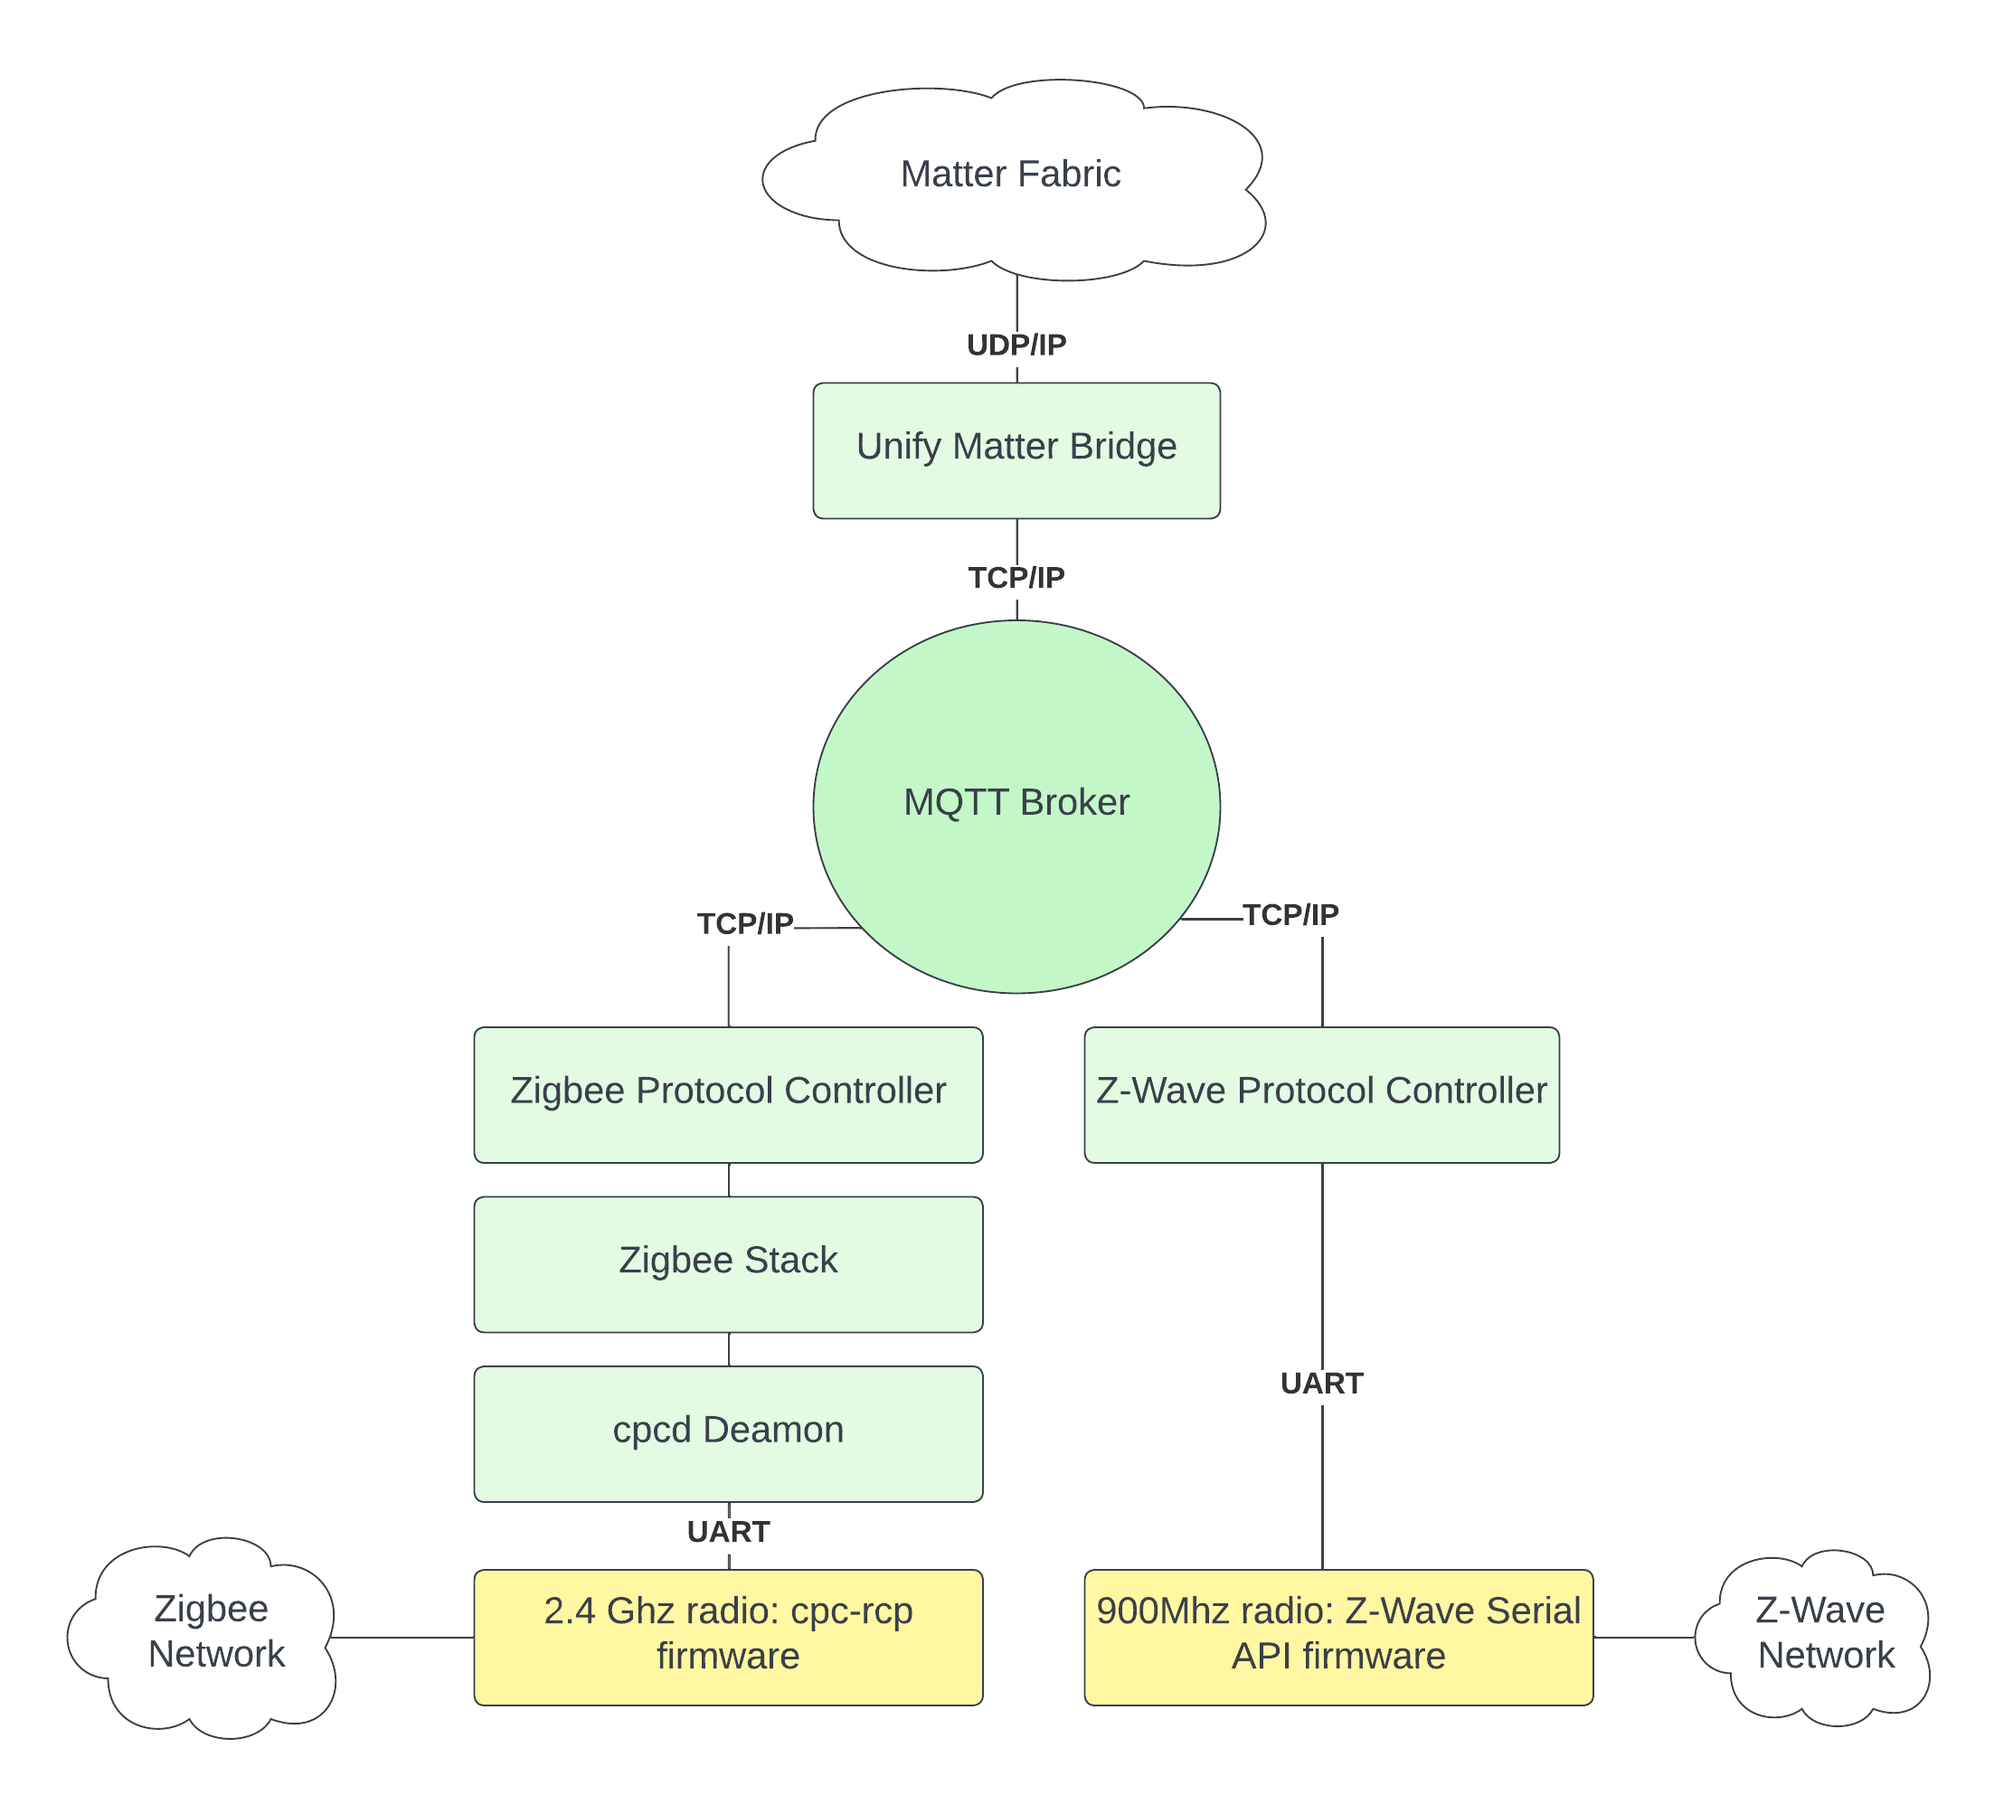
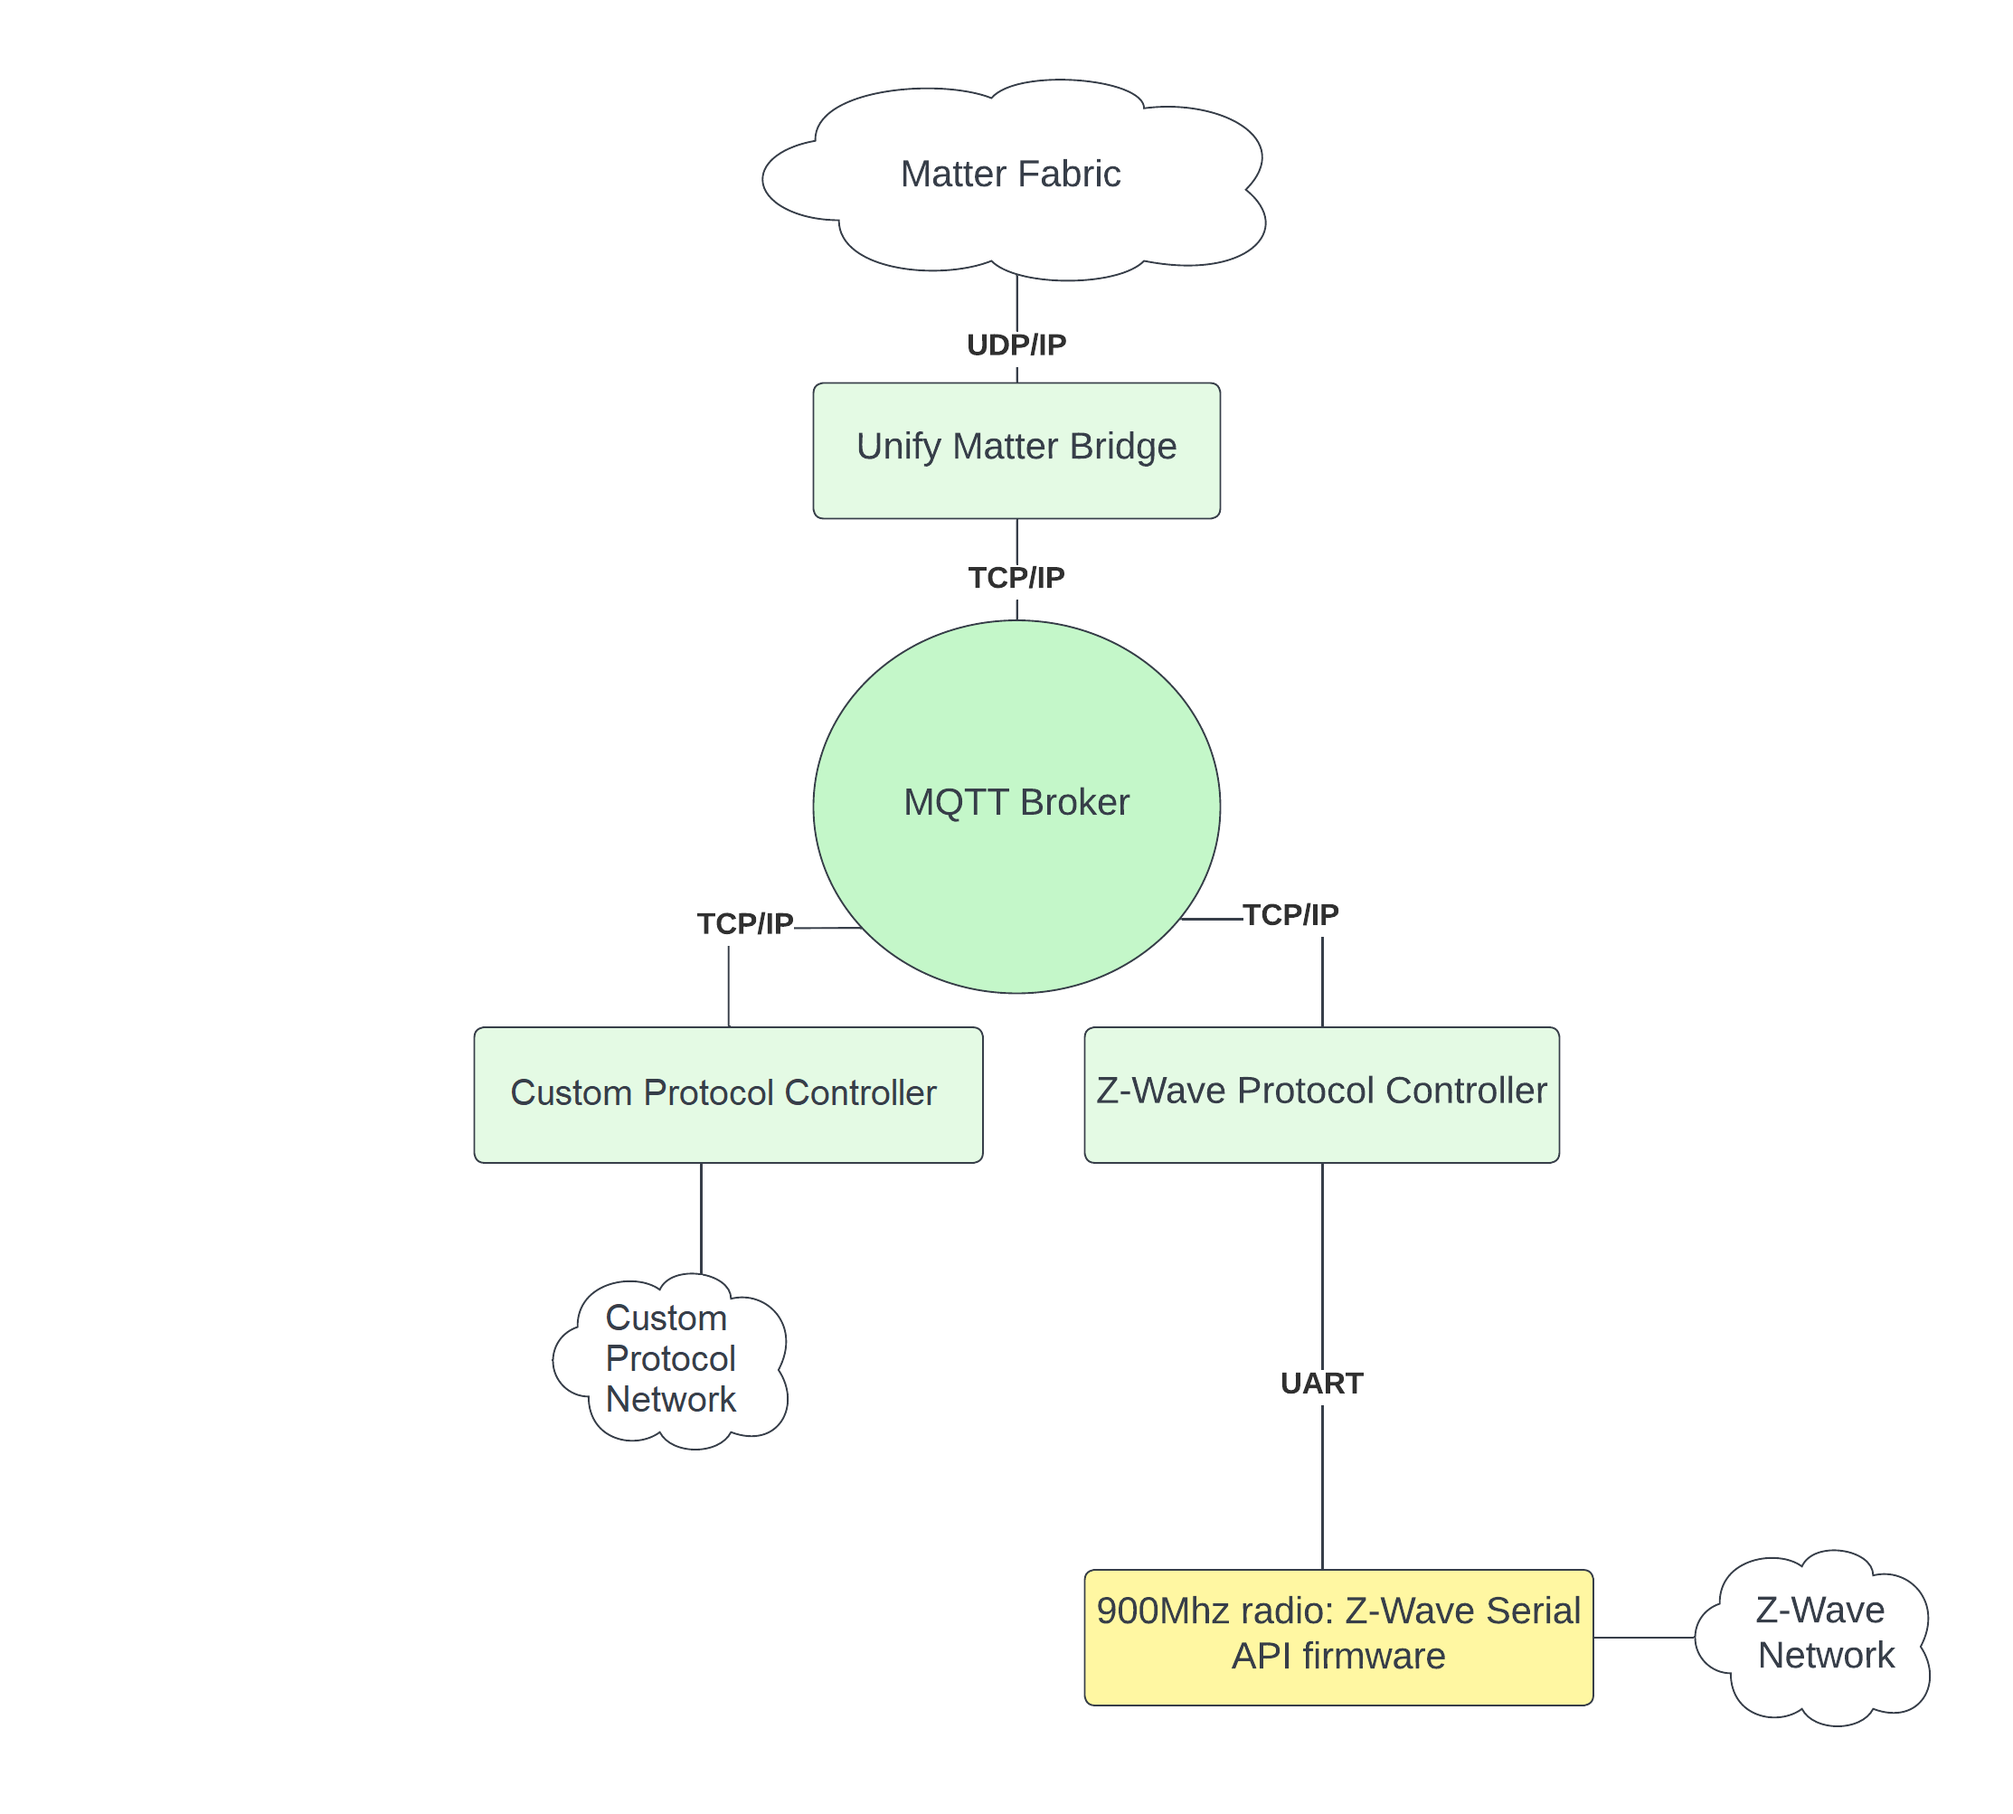
UIC-3651: Unify Matter Bridge Release 1.4.0 Updates

Changed region(s): [[0.217, 0.6491, 0.496, 0.9581], [0.248, 0.5872, 0.465, 0.6181], [0.062, 0.8654, 0.155, 0.9272]]

diff --git a/doc/readme_overview.md b/doc/readme_overview.md
@@ -1,13 +1,13 @@
 # Unify Matter Bridge Overview
 
-The Unify Matter Bridge is an application that makes legacy devices, such as
-Z-Wave and Zigbee devices, accessible on a Matter fabric. It does so by acting
+The Unify Matter Bridge is a reference application that makes legacy devices, such as
+Z-Wave devices, accessible on a Matter fabric. It does so by acting
 as an _IoT Service_ in a Unify Framework.
 
 In the Unify Framework, _protocol controllers_ translate raw wireless
-application protocols such as Z-Wave and Zigbee into a common API called the
+application protocols such as Z-Wave into a common API called the
 Unify Controller Language (UCL). This enables IoT services to operate and
-monitor Z-Wave and Zigbee networks without being aware of the underlying
+monitor Z-Wave networks without being aware of the underlying
 wireless protocol.
 
 In Unify, the transport between IoT services and Protocol Controllers is MQTT
@@ -76,23 +76,25 @@ for details on feature additions, bug fixes, and known issues.
 The Unify Matter Bridge currently supports mapping the following clusters/device
 types.
 
-| Cluster                       |Zigbee Support| Z-Wave Support|
-| :---------------------------- | :-----: | :-----: |
-| Bridge Device Information     |❌|✅| 
-| Level                         |✅|✅|
-| OnOff                         |✅|✅|
-| Identify                      |✅|❌|
-| Group                         |✅|✅|
-| Color Control                 |✅|✅|
-| Occupancy Sensing             |✅|✅|
-| DoorLock                      |✅|✅|
-| Window Covering               |✅|❌|
-| Temperature Measurement       |❌|✅|
-| Illuminance Measurement       |❌|✅|
-| Pressure Measurement          |❌|✅|
-| Flow Measurement              |❌|❌|
-| RelativeHumidity Measurement  |❌|✅|
-| Thermostat            |✅|✅|
+| Cluster                       | Z-Wave Support|
+| :---------------------------- | :-----: |
+| Bridge Device Information     |✅|
+| Level                         |✅|
+| OnOff                         |✅|
+| Identify                      |❌|
+| Group                         |✅|
+| Color Control                 |✅|
+| Occupancy Sensing             |✅|
+| DoorLock                      |✅|
+| Window Covering               |❌|
+| Temperature Measurement       |✅|
+| Illuminance Measurement       |✅|
+| Pressure Measurement          |✅|
+| Flow Measurement              |❌|
+| RelativeHumidity Measurement  |✅|
+| Thermostat            |✅|
+
+All the above clusters are supported by EED for developer use only.
 
 
 > **Note:** The Matter specification states that if write interaction is made on the Mode attribute of the

diff --git a/doc/UMB_Design.md b/doc/UMB_Design.md
@@ -61,7 +61,7 @@ ProductLabel | O | ucl/by-unid/+/ep0/Basic/Attributes/ProductLabel/Reported |
 
 ### Cluster specific Attribute Access Interfaces
 The controller may perform read and write operations on individual attribute of any cluster on any bridged endpoint. The matter bridge must implement translators that convert the write operation to corresponding WriteAttribute Unify MQTT message. It shall also parse and store ReportedValue(s) of all attributes from unsolicited publish messages from Protocol Controllers when there is update on attribute. The stored values shall be refered to while responding to Read operation on that resource. These translators and parser interfaces shall be zap generated to the greatest extent possible. <br>
-The translators will be fairly simple, as both the Unfiy data model and the Matter data model are both based on Zigbee Cluster Library. However, there are still some discrepancies. In order to bridge these gaps, some cluster attributes may need to be emulated to best extent possible by matter bridge.
+The translators will be fairly simple, as both the Unify data model and the Matter data model are both based on Zigbee Cluster Library(ZCL). However, there are still some discrepancies. In order to bridge these gaps, some cluster attributes may need to be emulated to best extent possible by matter bridge.
 
 More details in [Attribute Access](#attribute-access) section below.
 

diff --git a/doc/readme_building.md b/doc/readme_building.md
@@ -1,6 +1,6 @@
 # Building the Unify Matter Bridge
 
-This build guide cross-compiles for arm64 architecture to be run on Unify's reference platform - a Raspberry Pi 4 (RPi4) with the 64-bit version of Debian Bookworm.
+This build guide helps with cross-compilation for arm64 architecture to be run on Unify's reference platform - a Raspberry Pi 4 (RPi4) with the 64-bit version of Debian Bookworm.
 
 > **Note:**
 > In the following subsections the commands should either be run on your local development machine or inside a running Docker container, as distinguished by the structure of the example.
@@ -98,4 +98,4 @@ root@docker:/unify-matter-bridge/linux/third_party/connectedhomeip/examples/chip
    compiling unit tests for all other sub-components.
 3. Encountering problems with the submodules can be due to trying to check out
    the submodules inside the docker container.
-4. If the Unify Matter Bridge gets stuck while booting. Try to pass `--args="chip_config_network_layer_ble=false"` to `gn gen` command while building
+4. If the Unify Matter Bridge gets stuck while booting. Try to pass `--args="chip_config_network_layer_ble=false"` to `gn gen` command while building.<br>`Note: Doing this will disable ble commissioning feature`

diff --git a/doc/readme_user.md b/doc/readme_user.md
@@ -304,7 +304,7 @@ For more information on how to use the `chip-tool` see the
 
 The Matter Bridge has support for forwarding group messages from the Matter
 Fabric to Unify Nodes. The protocol controllers will send the group messages as
-actual group cast messages on the destination network (Z-Wave/Zigbee).
+actual group cast messages on the destination network (Z-Wave).
 
 To send a group command, first set up the group keys in the bridge. This example
 assumes the bridge to be Node ID 1, and GroupKeySetID 42 is added to Group ID 1:
